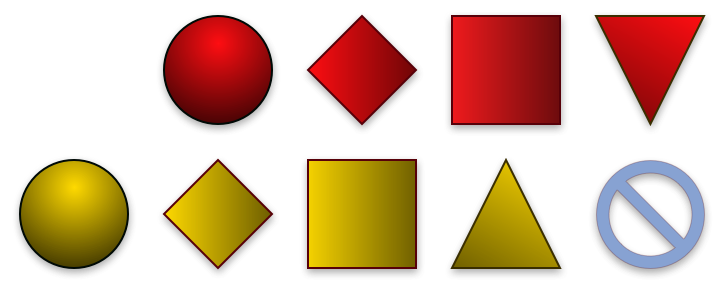
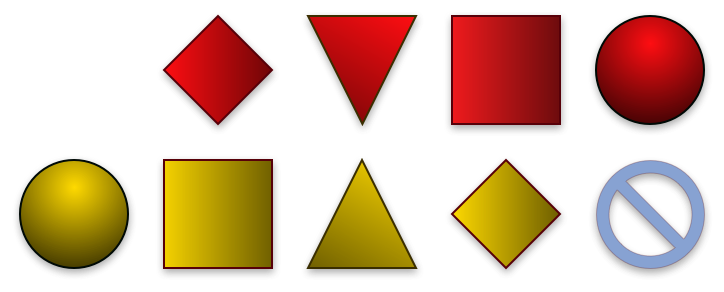
pieces in sidebars line up with the ones on the board

diff --git a/Phage.m b/Phage.m
@@ -193,7 +193,7 @@ and updates views in between. */
 }
 
 
-#pragma NSTableView
+#pragma mark NSTableView
 
 - (int)numberOfRowsInTableView:(NSTableView *)this
 {
@@ -202,15 +202,17 @@ and updates views in between. */
 
 - (id)tableView:(NSTableView *)this objectValueForTableColumn:(NSTableColumn *)column row:(int)row
 {
-    int offset = this == blackMoves ? 5 : 1;
+    int offset = this == whiteMoves ? 5 : 1;
     id piece;
-    switch([this columnWithIdentifier:[column identifier]]) {
+    switch ([this columnWithIdentifier:[column identifier]]) {
         case 0:
             piece = [pieces objectAtIndex:offset + row];
             break;
         case 1:
             piece = [NSNumber numberWithInt: [[ab state] movesLeftForIndex:offset + row]];
             break;
+        default:
+            [NSException raise:@"impossible" format:@"I was passed a column I don't know about"];
     }
     return piece;
 }

diff --git a/BoardView.m b/BoardView.m
@@ -51,14 +51,14 @@
     /* ick! */
     int map[Dirty+1] = { 0, };
     map[ Empty ] = 0;
-    map[ Black | Circle ] = 1;
-    map[ Black | Diamond ] = 2;
-    map[ Black | Square ] = 3;
-    map[ Black | Triangle ] = 4;
-    map[ White | Circle ] = 5;
-    map[ White | Diamond ] = 6;
-    map[ White | Square ] = 7;
-    map[ White | Triangle ] = 8;
+    map[ Black | Diamond ]  = 1;
+    map[ Black | Triangle ] = 2;
+    map[ Black | Square ]   = 3;
+    map[ Black | Circle ]   = 4;
+    map[ White | Circle ]   = 5;
+    map[ White | Square ]   = 6;
+    map[ White | Triangle ] = 7;
+    map[ White | Diamond ]  = 8;
     map[ Dirty ] = 9;
 
     for (int r = 0; r < rows; r++) {

diff --git a/PhageState.h b/PhageState.h
@@ -31,8 +31,8 @@ enum {
     Empty = 0,
 
     Circle = 1,
-    Square = 2,
-    Diamond = 4,
+    Diamond = 2,
+    Square = 4,
     Triangle = 8,
 
     Black = 16,
